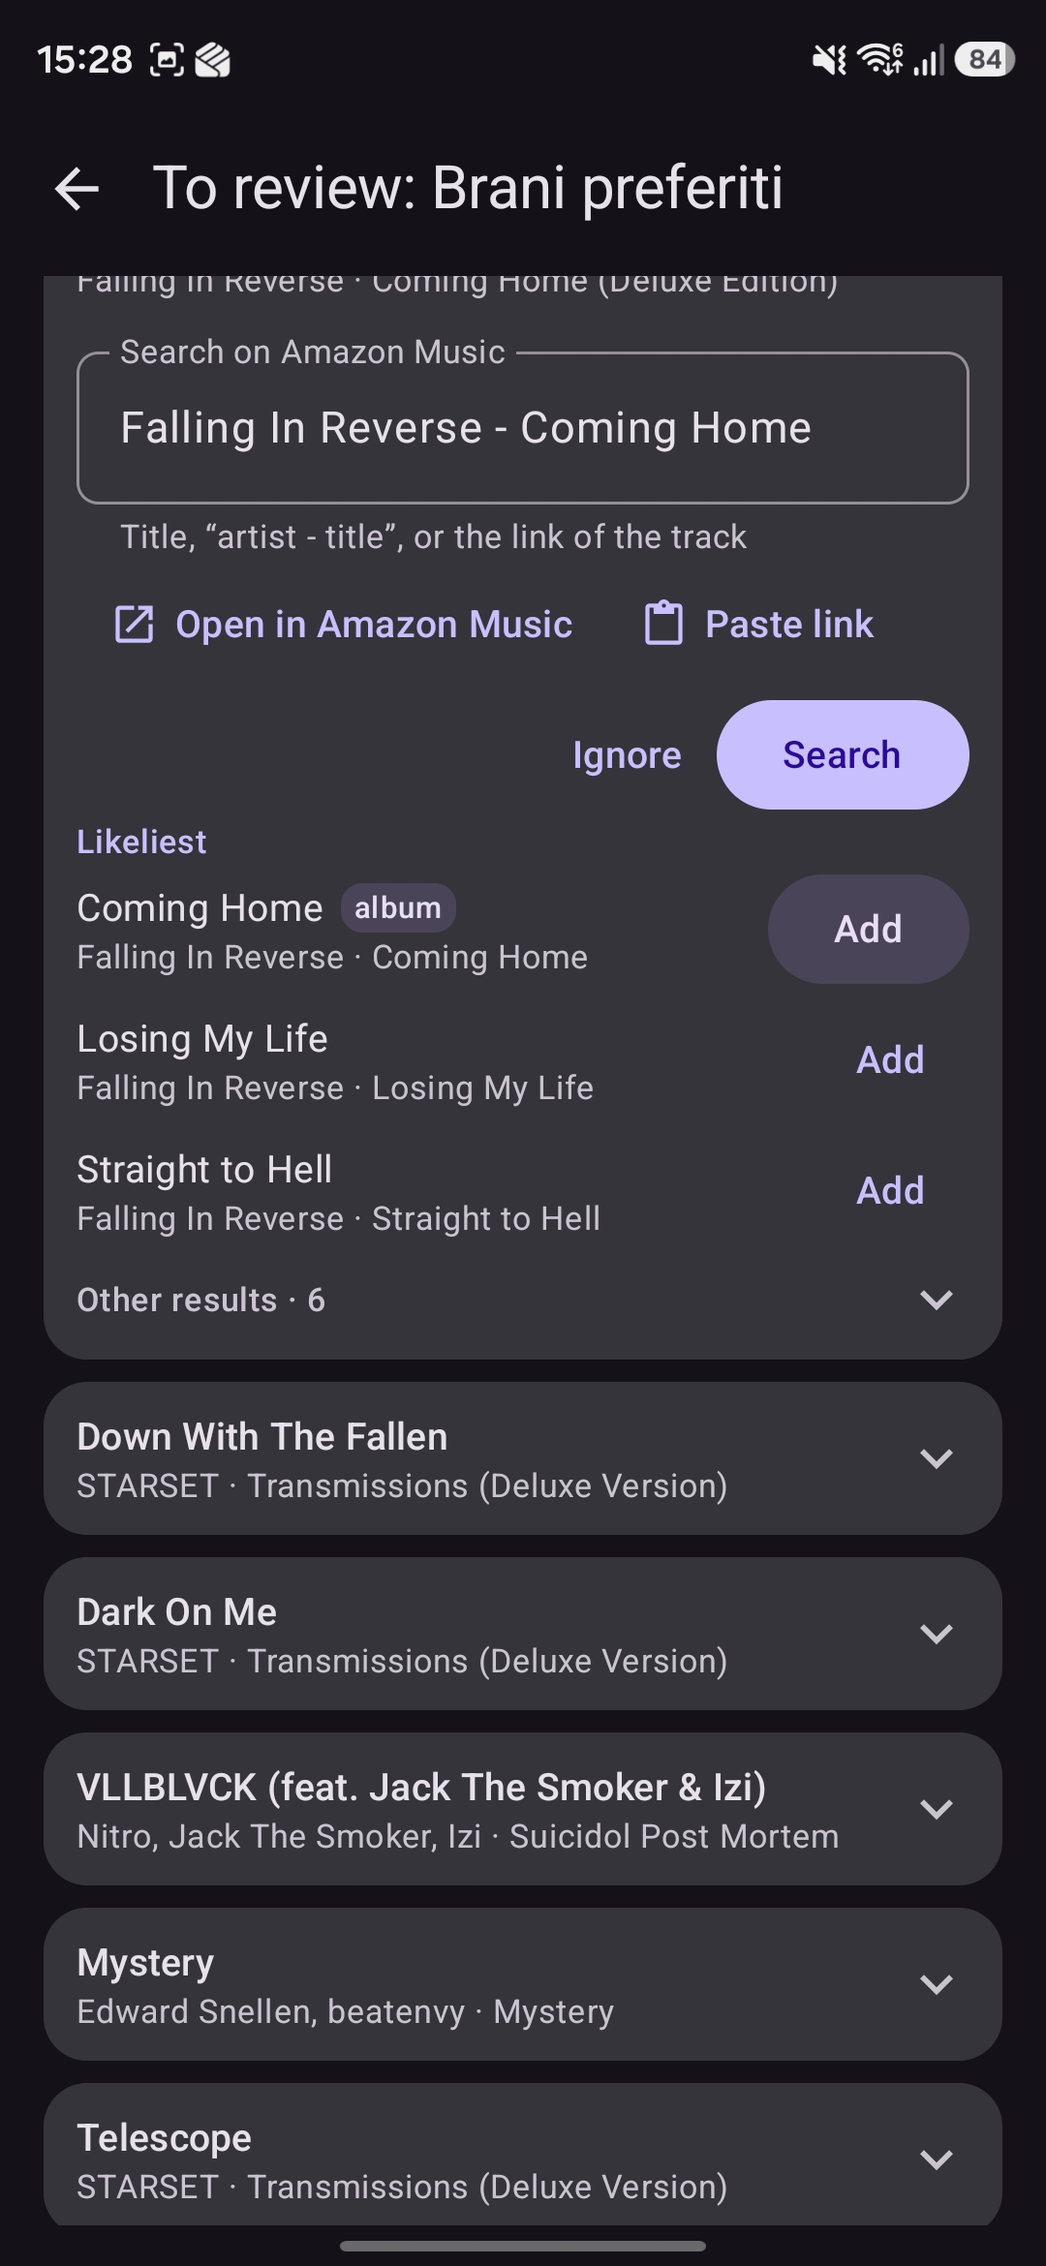
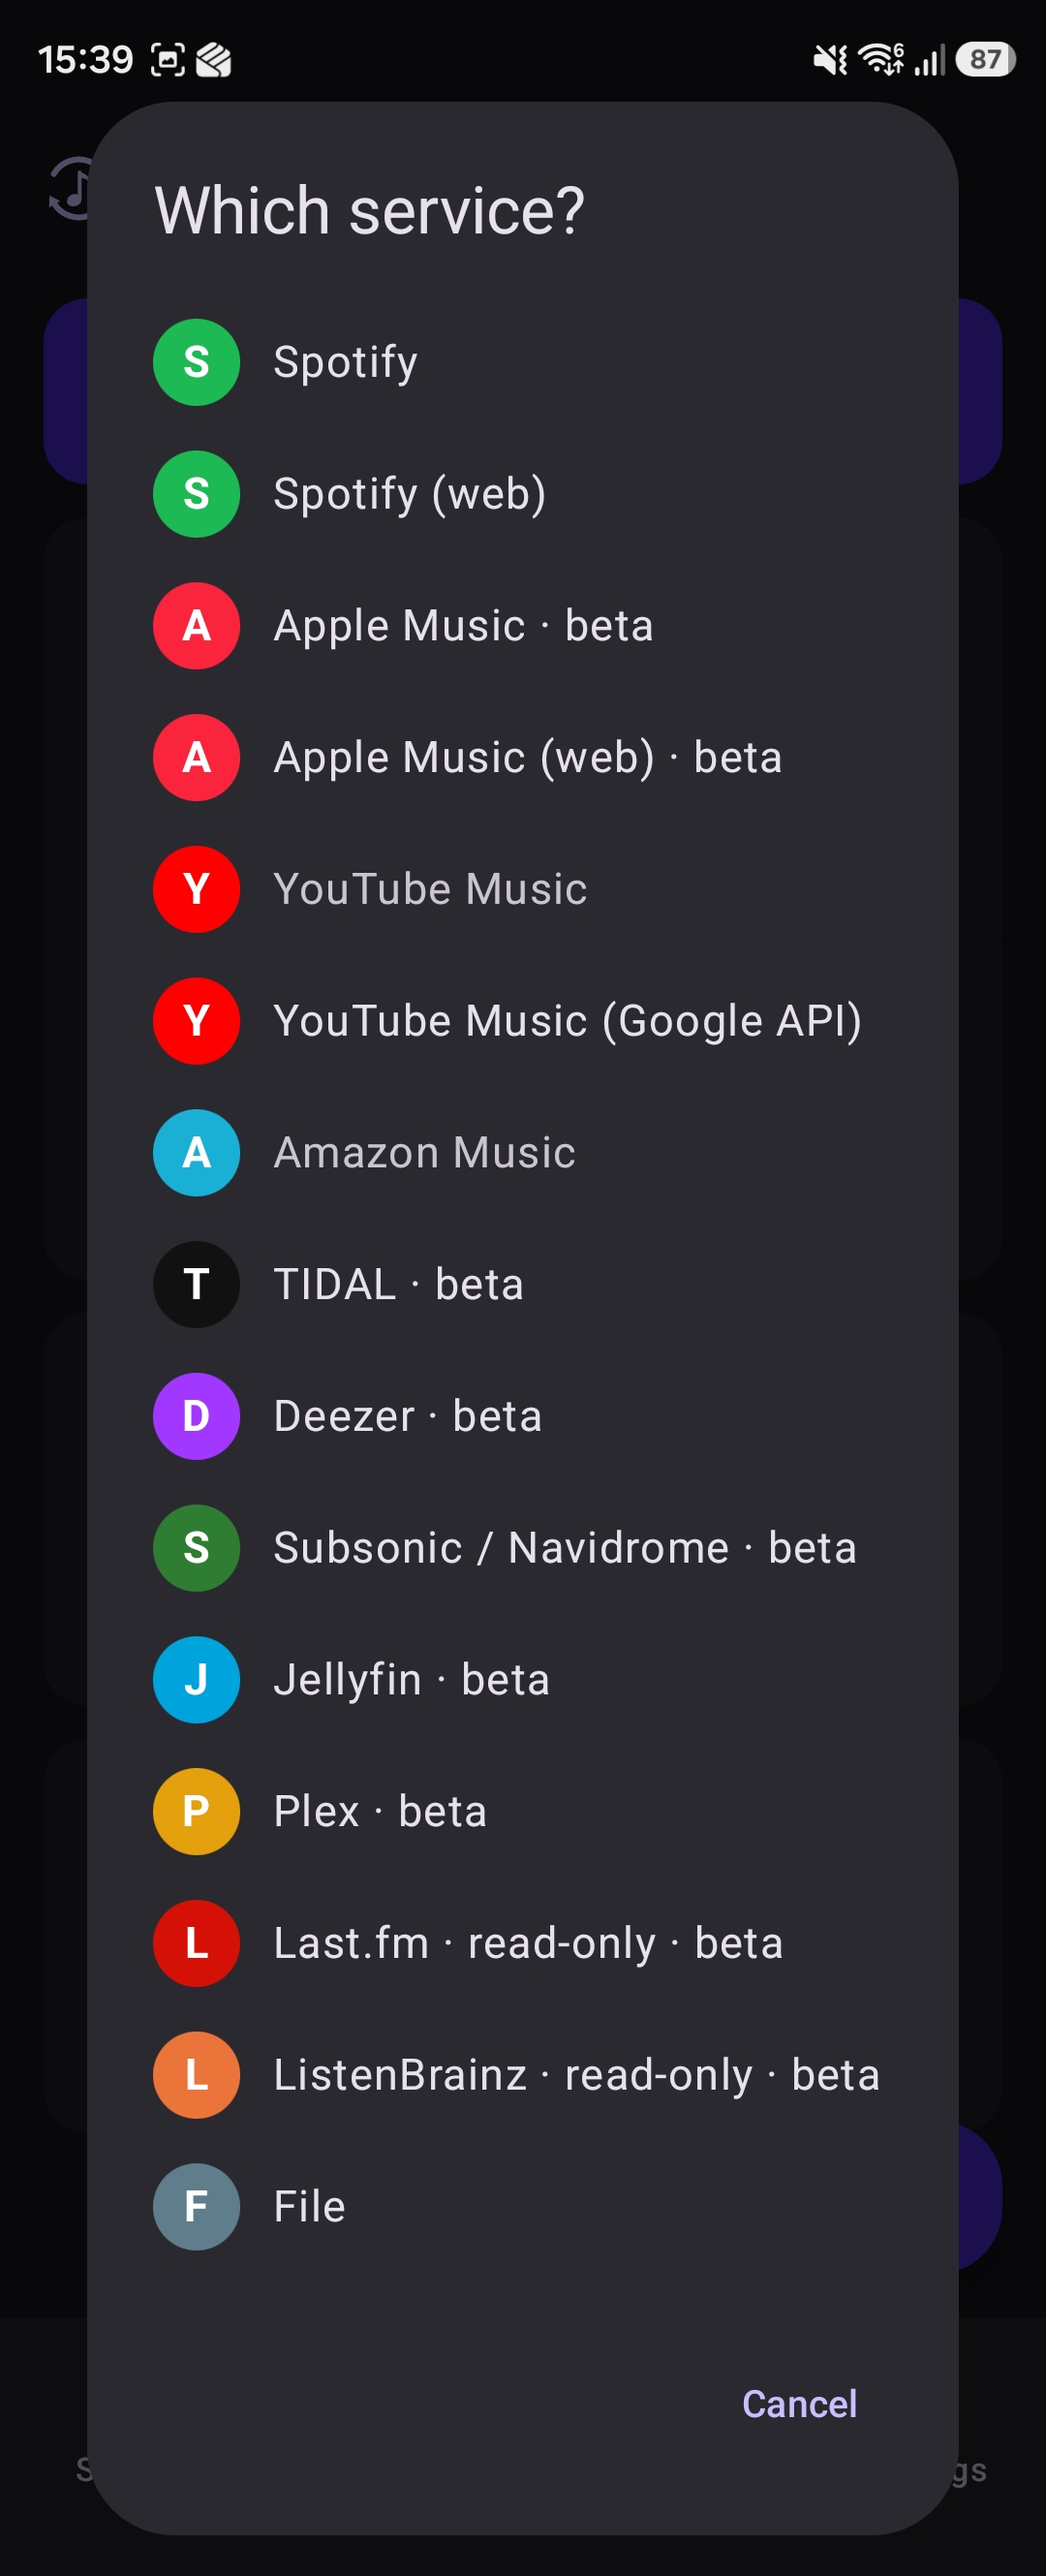
Screenshot of the service picker
Goes third, after the new sync screen; the README row follows. The
version stays at 1.0.45.

Claude-Session: https://claude.ai/code/session_01G4RU1oDBCGpxvAW3czjCuS

diff --git a/README.md b/README.md
@@ -2,7 +2,7 @@
 
 ![Songport](docs/store/feature_en.png)
 
-<p align="center"><img src="fastlane/metadata/android/en-US/images/phoneScreenshots/1.jpg" width="160" alt="Syncs"> <img src="fastlane/metadata/android/en-US/images/phoneScreenshots/2.jpg" width="160" alt="New sync"> <img src="fastlane/metadata/android/en-US/images/phoneScreenshots/3.jpg" width="160" alt="Review of tracks not found"> <img src="fastlane/metadata/android/en-US/images/phoneScreenshots/4.jpg" width="160" alt="Tools"> <img src="fastlane/metadata/android/en-US/images/phoneScreenshots/5.jpg" width="160" alt="Settings"></p>
+<p align="center"><img src="fastlane/metadata/android/en-US/images/phoneScreenshots/1.jpg" width="160" alt="Syncs"> <img src="fastlane/metadata/android/en-US/images/phoneScreenshots/2.jpg" width="160" alt="New sync"> <img src="fastlane/metadata/android/en-US/images/phoneScreenshots/3.jpg" width="160" alt="Choosing a service"> <img src="fastlane/metadata/android/en-US/images/phoneScreenshots/4.jpg" width="160" alt="Review of tracks not found"> <img src="fastlane/metadata/android/en-US/images/phoneScreenshots/5.jpg" width="160" alt="Tools"> <img src="fastlane/metadata/android/en-US/images/phoneScreenshots/6.jpg" width="160" alt="Settings"></p>
 
 Android app that keeps playlists in sync across music services, manually or on a schedule.
 Free, no account, no subscription, and no ads in the GitHub build: development lives on voluntary
